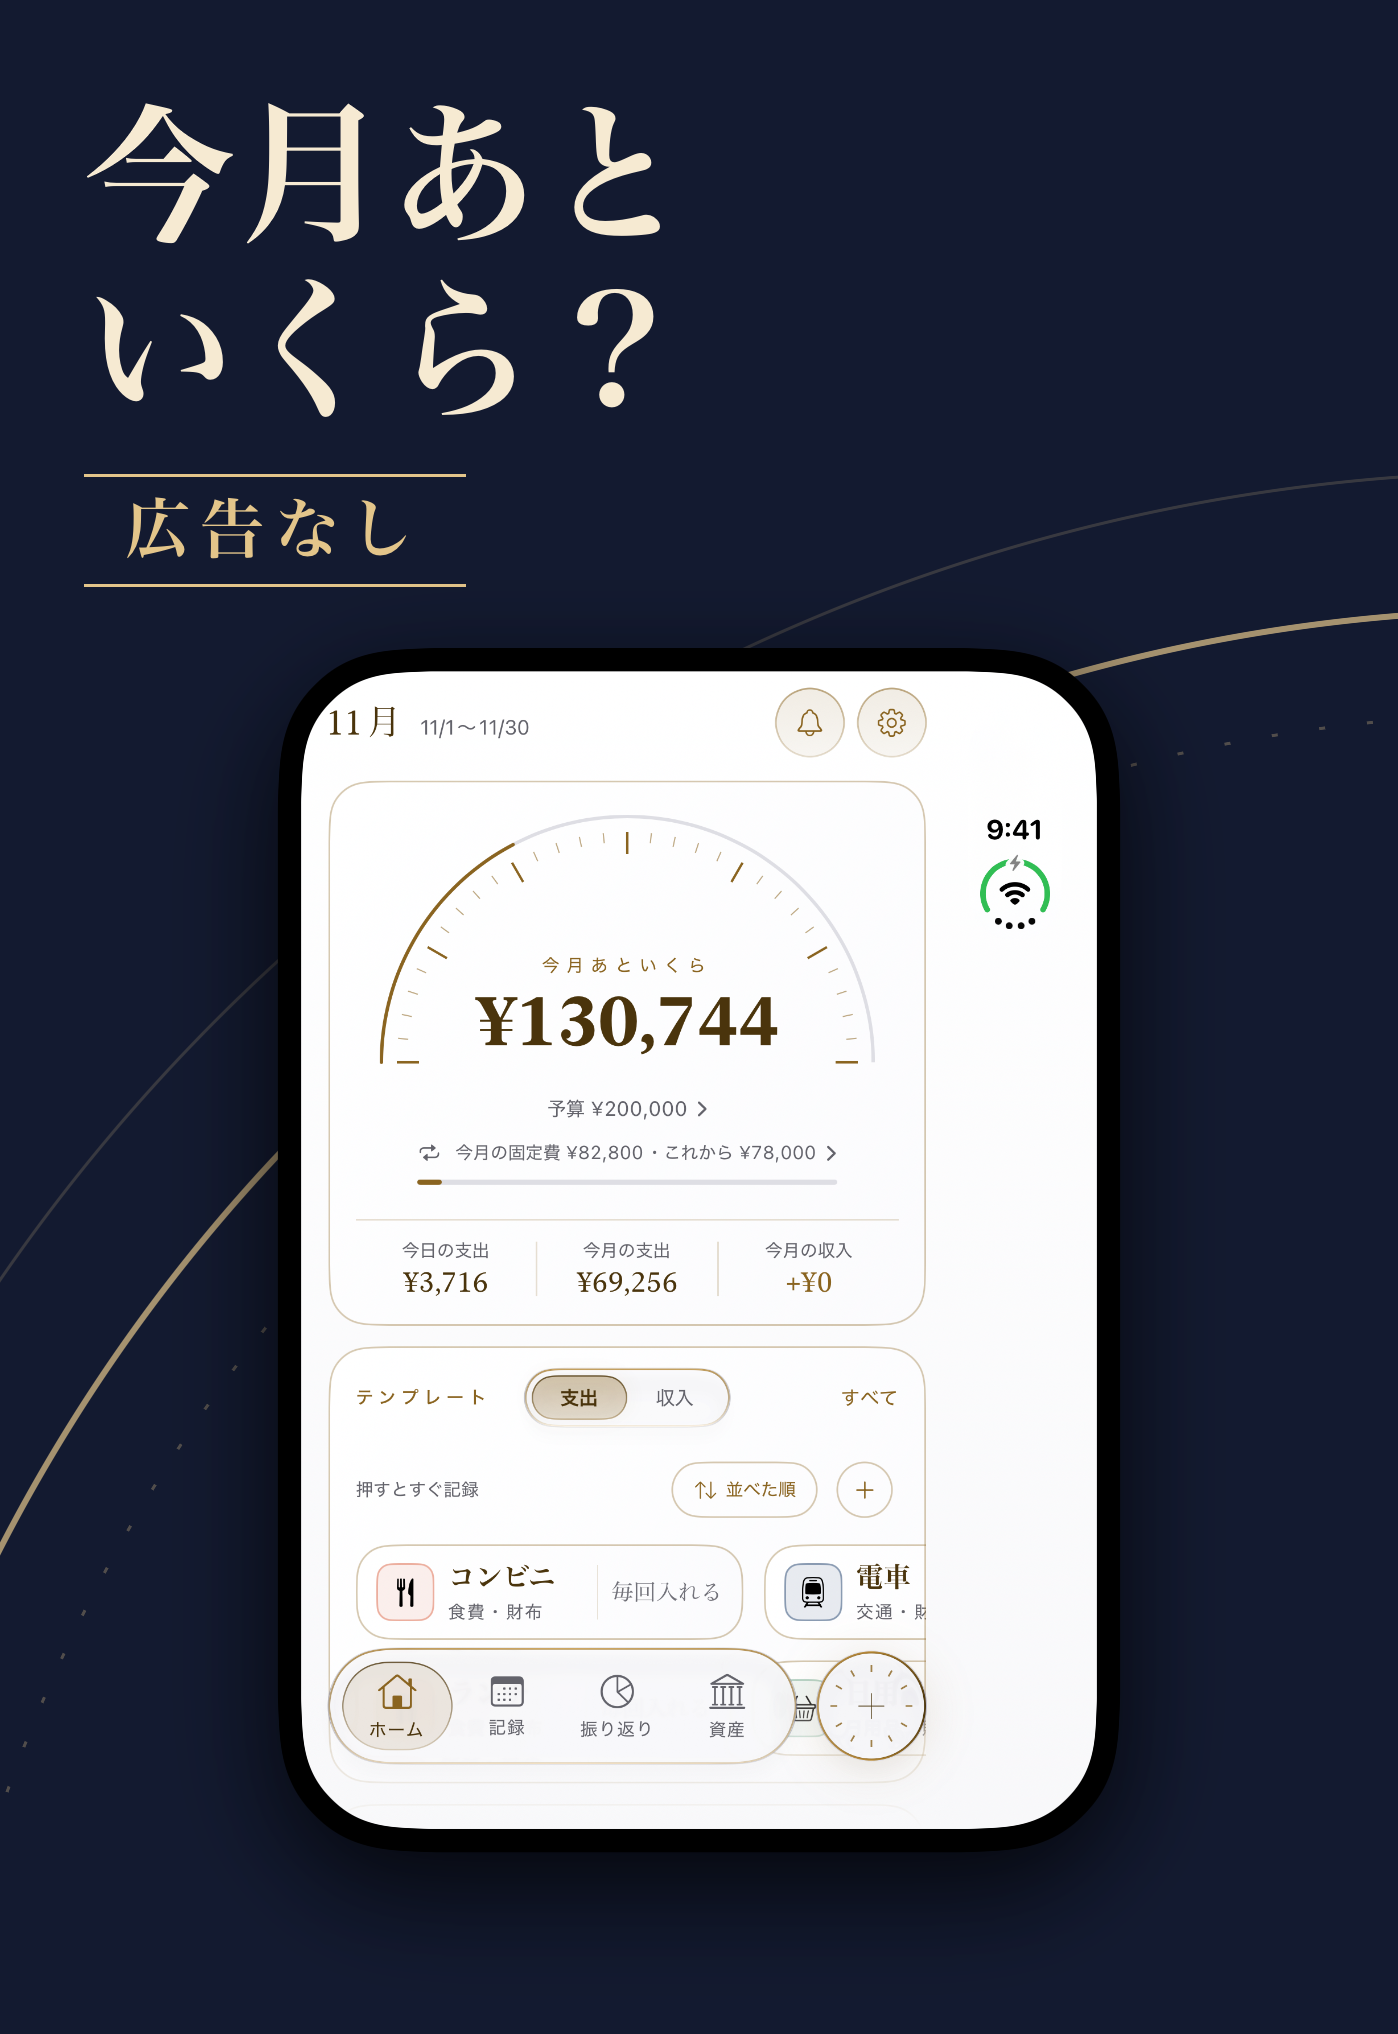
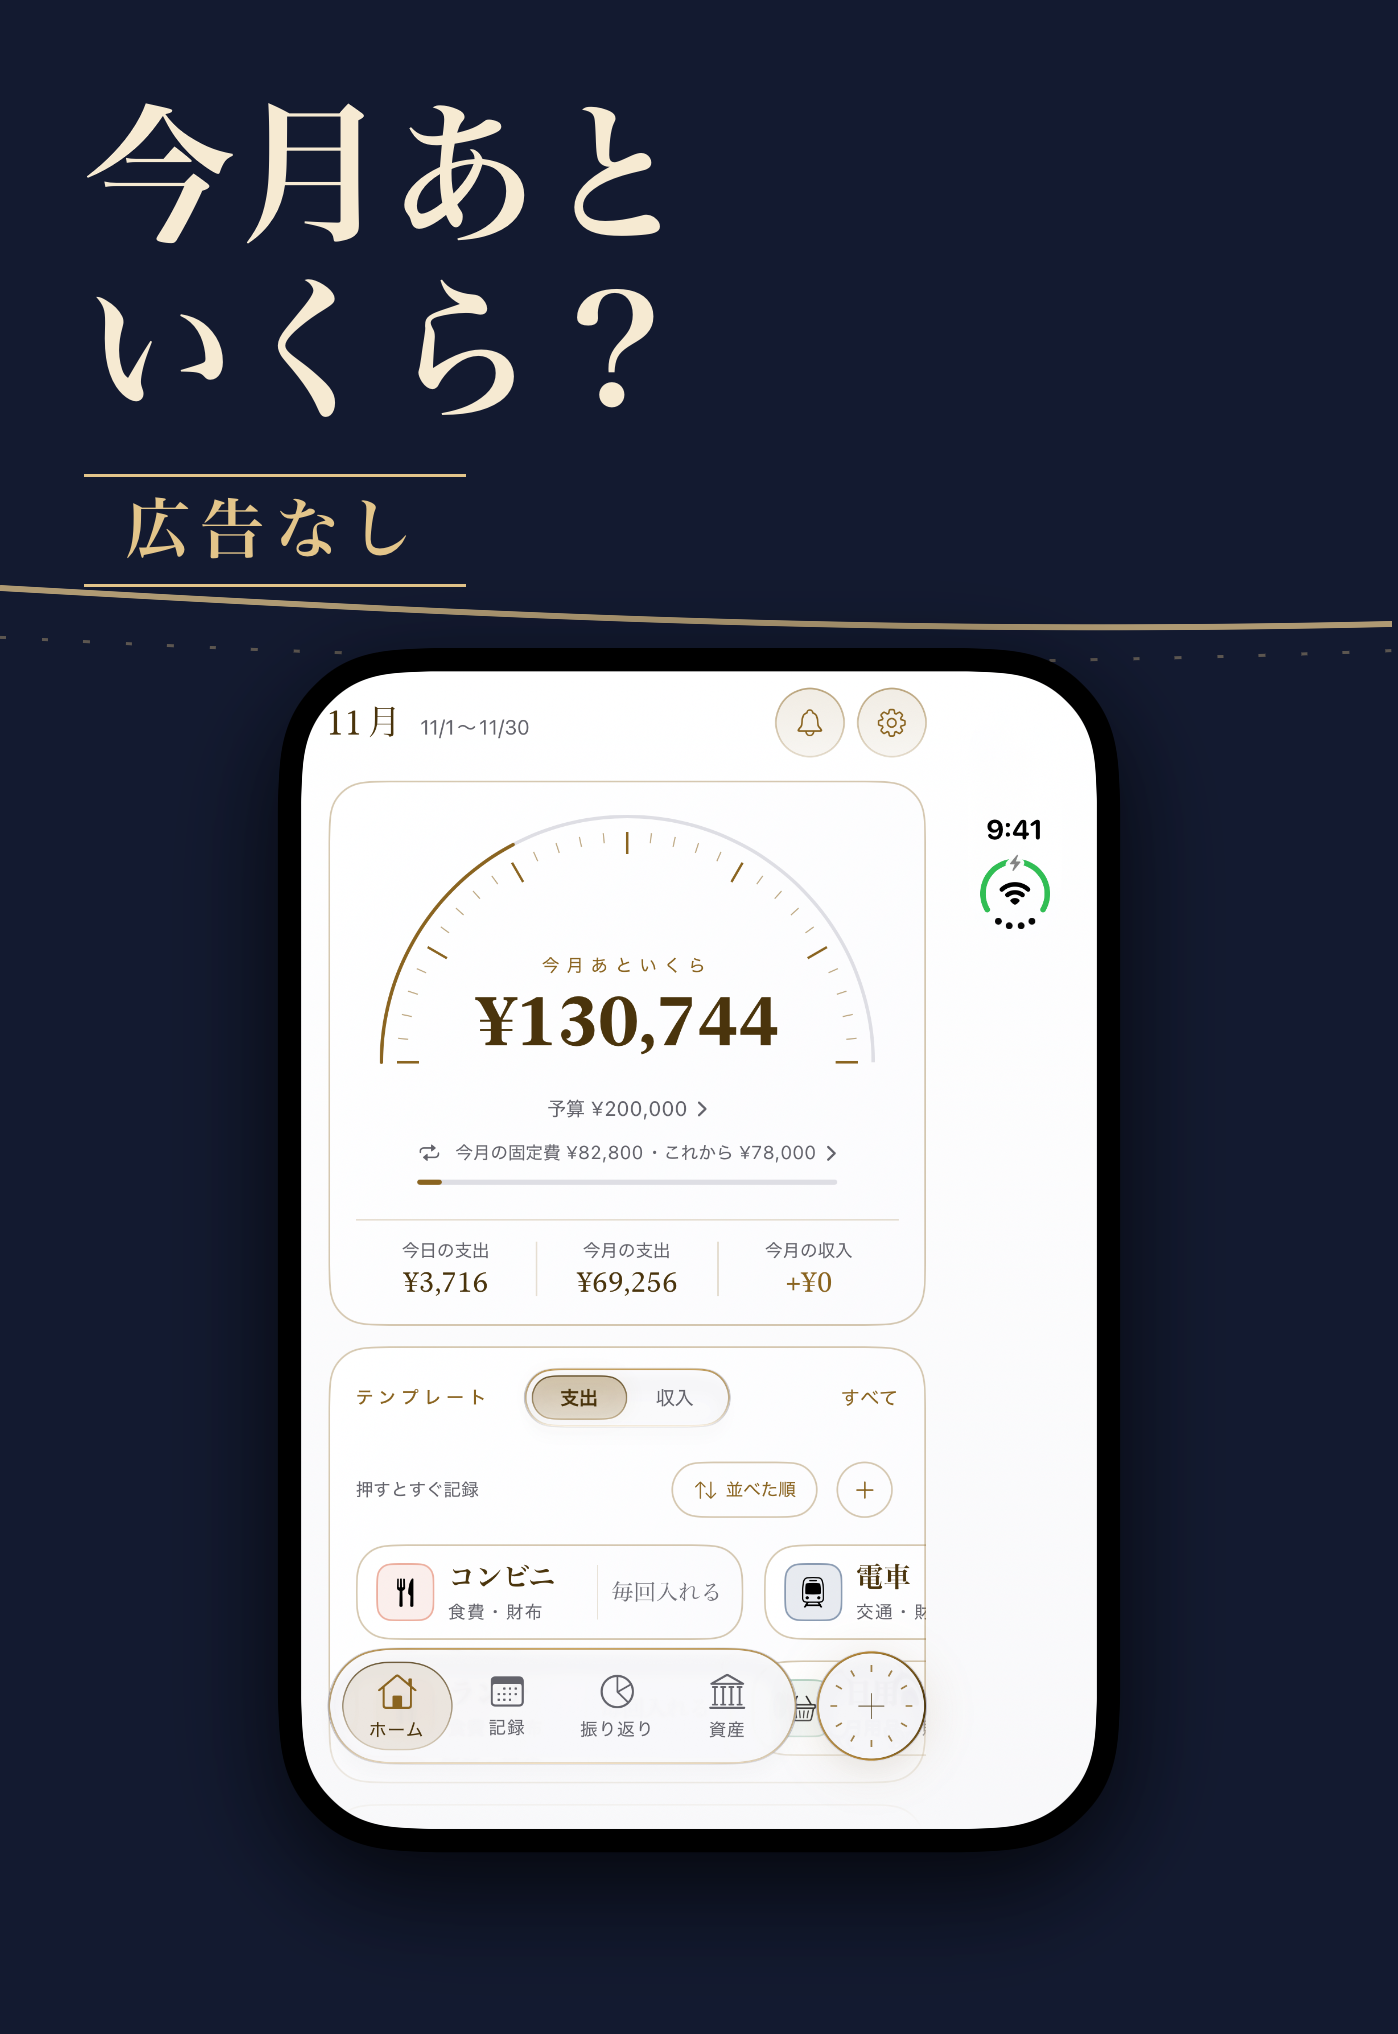
build: retake the ipad and duo store screenshots as ten pages
iPad と Duo の内・外を、iPhone と同じ 10 枚の並びにそろえた。
背景は金の弧をやめ、iPhone と同じ金の波線を 10 枚でつなげた。
iPad のレシートは、カレンダーから開いたお買上明細に撮り直した。

diff --git a/.claude/snapshots/store/SnapshotTests.swift b/.claude/snapshots/store/SnapshotTests.swift
@@ -9,9 +9,9 @@ struct SnapshotTests {
     @Test
     func render() throws {
         for (canvas, pages) in Self.pageSets {
-            for page in pages {
+            for (index, page) in pages.enumerated() {
                 let art = try Self.load(page.art)
-                let view = StorePage(page: page, art: art, canvas: canvas)
+                let view = StorePage(page: page, index: index, art: art, canvas: canvas)
 
                 try Self.write(view, canvas: canvas, to: page.file)
             }
@@ -69,6 +69,15 @@ extension SnapshotTests {
             case .pad: "13"
             case .header: "header"
             case .search: "search"
+            }
+        }
+
+        var device: String {
+            switch self {
+            case .duoOuter: "outer"
+            case .duoInner: "inner"
+            case .pad: "pad"
+            case .phone, .header, .search: ""
             }
         }
 
@@ -370,6 +379,7 @@ private extension StoreHeadline {
 
 private struct StorePage: View {
     let page: SnapshotTests.Page
+    let index: Int
     let art: SnapshotTests.LoadedArt
     let canvas: SnapshotTests.Canvas
 
@@ -390,7 +400,9 @@ private struct StorePage: View {
         }
         .frame(width: canvas.size.width, height: canvas.size.height, alignment: .top)
         .background {
-            StoreRings(rings: rings)
+            ForEach(Array(waves.enumerated()), id: \.offset) { _, wave in
+                wave
+            }
         }
         .background(StoreInk.ground)
         .clipped()
@@ -426,14 +438,32 @@ private extension StorePage {
         ReceiptLine(name: "洗剤", amount: "¥456")
     ]
 
-    var rings: [StoreRings.Ring] {
-        let size = canvas.size
+    var waves: [StoreWave] {
+        let zoom = canvas.size.width / 320
+        let swing = min(zoom, 1.5)
+        let y = canvas.headerHeight - 20
+        let shift = canvas.size.width * 1.05 * CGFloat(index)
 
-        return StoreRings.arcs(
-            x: size.width * 1.1,
-            y: size.height * 1.15,
-            radius: max(size.width, size.height) * 0.85
-        )
+        return [
+            StoreWave(
+                y: y,
+                amplitude: 9 * swing,
+                period: 1008 * zoom,
+                phase: 0,
+                opacity: 0.75,
+                width: 2,
+                dash: []
+            ),
+            StoreWave(
+                y: y + 8 * swing,
+                amplitude: 9 * swing,
+                period: 1008 * zoom,
+                phase: 60 * zoom,
+                opacity: 0.35,
+                width: 1,
+                dash: [2, 12]
+            )
+        ].map { $0.shifted(by: shift) }
     }
 
     var header: some View {
@@ -837,67 +867,6 @@ private extension SnapshotTests {
     static let searchShots = ["01-home", "08-review-closing-black"]
     static let headerShots = ["02-entry-black", "03-receipt", "01-home", "08-review-closing-black"]
 
-    static let outerPages = [
-        Page(
-            file: "01-home",
-            lines: ["今月あと", "いくら？"],
-            lead: .adFree,
-            art: .phone("outer-01-home")
-        ),
-        Page(
-            file: "02-theme",
-            lines: ["テーマも、", "着せ替え。"],
-            lead: .note("ライトとダークの 12 色から選べます"),
-            art: .fan(
-                left: "outer-04-theme-rose",
-                center: "outer-01-home",
-                right: "outer-04-theme-navy",
-                labels: ["ローズ", "ホワイト", "ネイビー"]
-            )
-        ),
-        Page(
-            file: "03-entry",
-            lines: ["記録は、", "タップ 1 回"],
-            lead: .note("テンプレートと電卓ですばやく"),
-            art: .phone("outer-02-entry")
-        ),
-        Page(
-            file: "04-receipt",
-            lines: ["レシートを", "撮れば入る"],
-            lead: .note("品名・合計・日付を読み取り"),
-            art: .receipt("outer-03-receipt")
-        ),
-        Page(
-            file: "05-font",
-            lines: ["フォントも、", "選べる"],
-            lead: .note("手書きやドットなど 6 種類"),
-            art: .compare(
-                "outer-05-font-hand",
-                parts: ["outer-01-home", "outer-05-font-hand"],
-                labels: ["明朝", "手書き"],
-                crop: CGRect(x: 52, y: 200, width: 1040, height: 560)
-            )
-        ),
-        Page(
-            file: "06-assets",
-            lines: ["残高も、", "引き落としも"],
-            lead: .note("口座とカードをまとめて"),
-            art: .phone("outer-06-assets")
-        ),
-        Page(
-            file: "07-review",
-            lines: ["何に使ったか", "すぐ分かる"],
-            lead: .note("内訳と前の月との比べ"),
-            art: .phone("outer-07-review")
-        ),
-        Page(
-            file: "08-records",
-            lines: ["毎日の支出を", "カレンダーで"],
-            lead: .note("使わなかった日には印がつきます"),
-            art: .phone("outer-08-records")
-        )
-    ]
-
     static let shots = [
         Shot(
             file: "01-home",
@@ -999,53 +968,11 @@ private extension SnapshotTests {
         )
     ]
 
-    static let innerPages = [
-        Page(
-            file: "01-home",
-            lines: ["広い画面で、", "家計をひと目で"],
-            lead: .adFree,
-            art: .phone("inner-01-home")
-        ),
-        Page(
-            file: "02-review",
-            lines: ["何に使ったか、", "並べて分かる"],
-            lead: .note("内訳と前の月との比べを 2 列で"),
-            art: .phone("inner-02-review")
-        ),
-        Page(
-            file: "03-assets",
-            lines: ["残高も引き落としも、", "まとめて"],
-            lead: .note("口座ごとの残高と、カードの引き落とし日"),
-            art: .phone("inner-03-assets")
-        ),
-        Page(
-            file: "04-records",
-            lines: ["毎日の支出を、", "カレンダーで"],
-            lead: .note("使わなかった日には印がつきます"),
-            art: .phone("inner-04-records")
-        ),
-        Page(
-            file: "05-entry",
-            lines: ["よく使う支出は、", "タップ 1 回"],
-            lead: .note("テンプレートと電卓ですばやく記録"),
-            art: .phone("inner-05-entry")
-        )
-    ]
-
-    static let padPages = innerPages.map { page in
-        Page(
-            file: page.file,
-            lines: page.lines,
-            lead: page.lead,
-            art: .phone("pad-\(page.file)")
-        )
-    }
-
     static var pageSets: [(Canvas, [Page])] {
         [
-            (.duoOuter, outerPages),
-            (.duoInner, innerPages),
-            (.pad, padPages)
+            (.duoOuter, pages(for: .duoOuter)),
+            (.duoInner, pages(for: .duoInner)),
+            (.pad, pages(for: .pad))
         ]
     }
 
@@ -1056,6 +983,101 @@ private extension SnapshotTests {
             .deletingLastPathComponent()
             .deletingLastPathComponent()
             .appending(path: "store/screenshots/raw")
+    }
+
+    static func pages(for canvas: Canvas) -> [Page] {
+        let device = canvas.device
+        let receipt = receiptArt(for: canvas)
+        let font = fontArt(for: canvas)
+
+        return [
+            Page(
+                file: "01-home",
+                lines: ["今月あと", "いくら？"],
+                lead: .adFree,
+                art: .phone("\(device)-01-home")
+            ),
+            Page(
+                file: "02-review",
+                lines: ["何に使ったか", "すぐ分かる"],
+                lead: .note("内訳と前の月との比べ"),
+                art: .phone("\(device)-02-review")
+            ),
+            Page(
+                file: "03-receipt",
+                lines: ["レシートを", "撮れば入る"],
+                lead: .note("品名・合計・日付を読み取り"),
+                art: receipt
+            ),
+            Page(
+                file: "04-entry",
+                lines: ["記録は、", "タップ 1 回"],
+                lead: .note("テンプレートと電卓ですばやく"),
+                art: .phone("\(device)-04-entry")
+            ),
+            Page(
+                file: "05-theme",
+                lines: ["テーマも、", "着せ替え。"],
+                lead: .note("ライトとダークの 12 色から選べます"),
+                art: .fan(
+                    left: "\(device)-05-theme-rose",
+                    center: "\(device)-01-home",
+                    right: "\(device)-05-theme-navy",
+                    labels: ["ローズ", "ホワイト", "ネイビー"]
+                )
+            ),
+            Page(
+                file: "06-records",
+                lines: ["毎日の支出を", "カレンダーで"],
+                lead: .note("使わなかった日には印がつきます"),
+                art: .phone("\(device)-06-records")
+            ),
+            Page(
+                file: "07-font",
+                lines: ["フォントも、", "選べる"],
+                lead: .note("手書きやドットなど 6 種類"),
+                art: font
+            ),
+            Page(
+                file: "08-report",
+                lines: ["締めたら、", "届くレポート"],
+                lead: .note("予算との差と、AI のひとこと"),
+                art: .phone("\(device)-08-report")
+            ),
+            Page(
+                file: "09-outlook",
+                lines: ["月末の残りが", "先に分かる"],
+                lead: .note("固定費と予定から見込みます"),
+                art: .phone("\(device)-09-outlook")
+            ),
+            Page(
+                file: "10-assets",
+                lines: ["残高も、", "引き落としも"],
+                lead: .note("口座とカードをまとめて"),
+                art: .phone("\(device)-10-assets")
+            )
+        ]
+    }
+
+    static func receiptArt(for canvas: Canvas) -> Art {
+        guard canvas == .duoOuter else {
+            return .phone("\(canvas.device)-03-receipt")
+        }
+
+        return .receipt("outer-03-receipt")
+    }
+
+    static func fontArt(for canvas: Canvas) -> Art {
+        guard canvas == .duoOuter else {
+            return .phone("\(canvas.device)-07-font-hand")
+        }
+
+        return .compare(
+            "outer-07-font-hand",
+            parts: ["outer-01-home", "outer-07-font-hand"],
+            labels: ["明朝", "手書き"],
+            crop: CGRect(x: 52, y: 200, width: 1040, height: 560)
+        )
     }
 
     static func image(_ name: String) throws -> UIImage {
